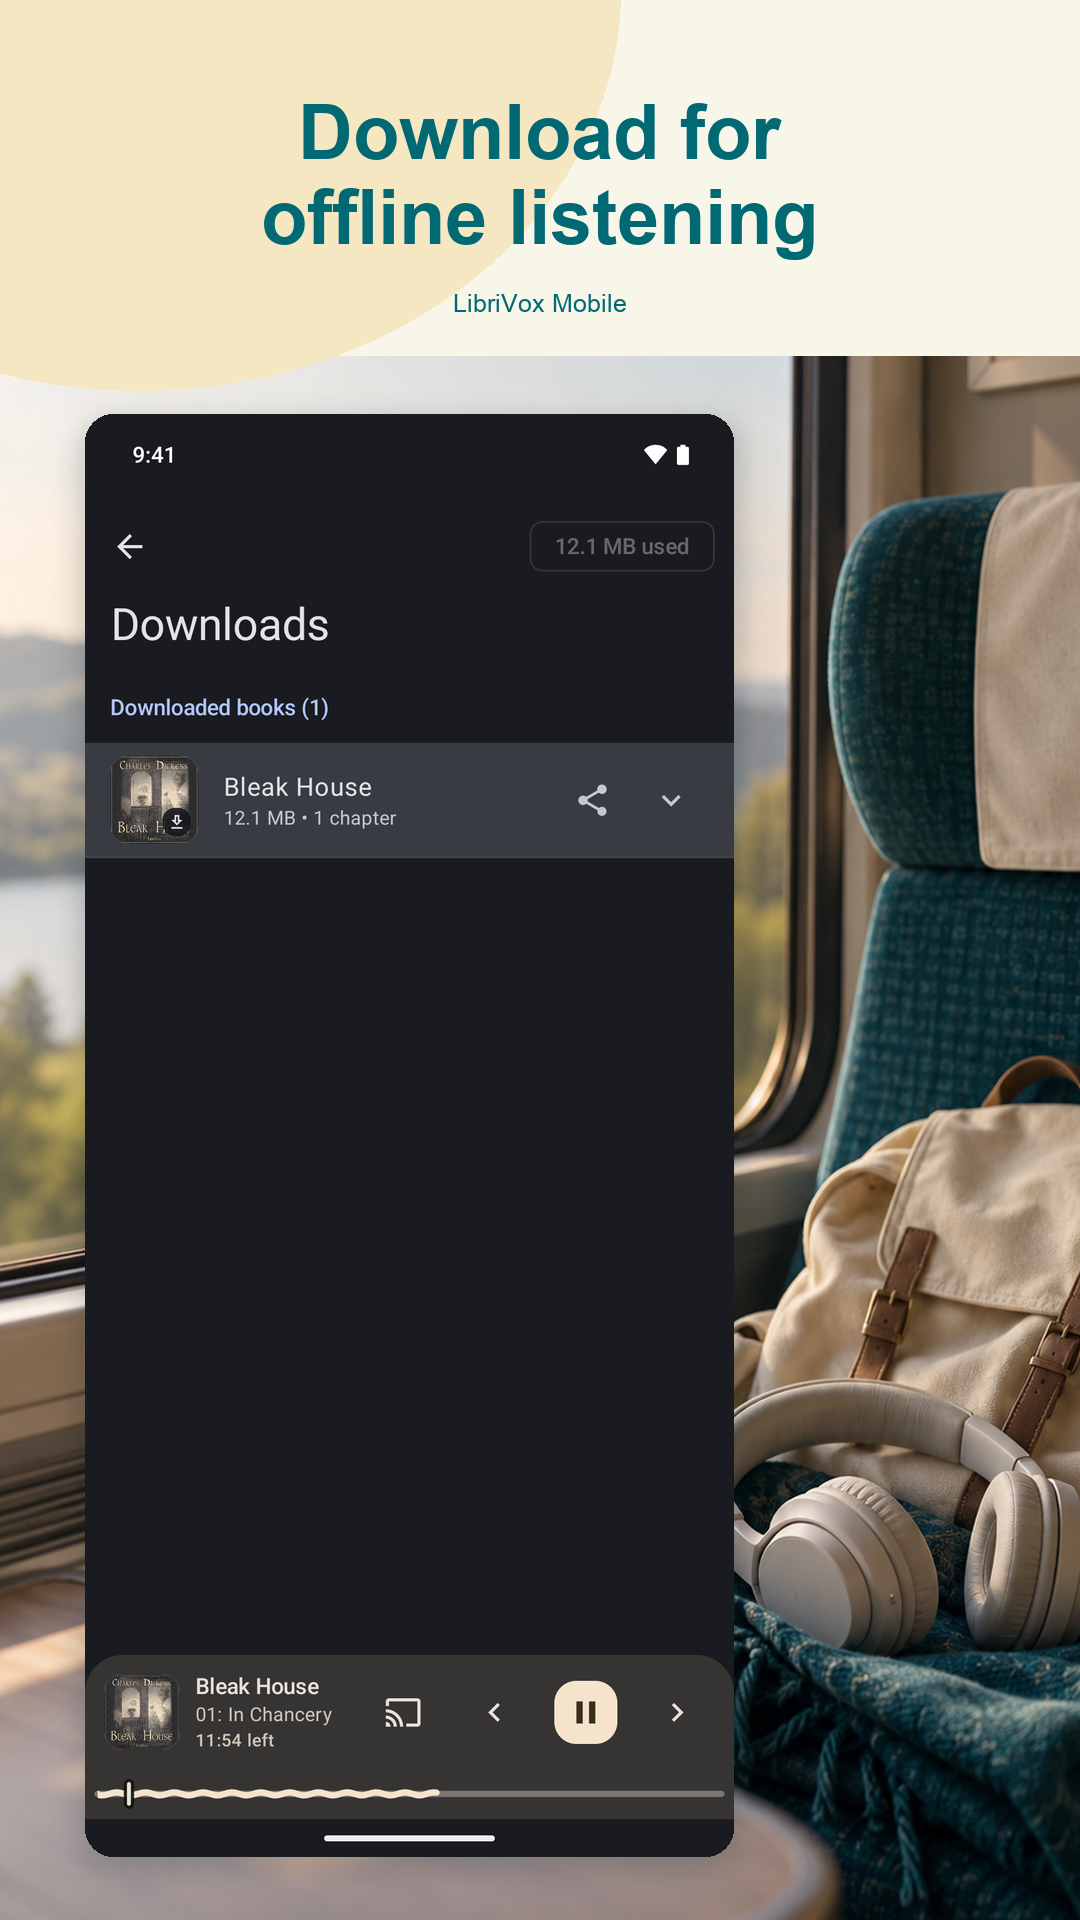
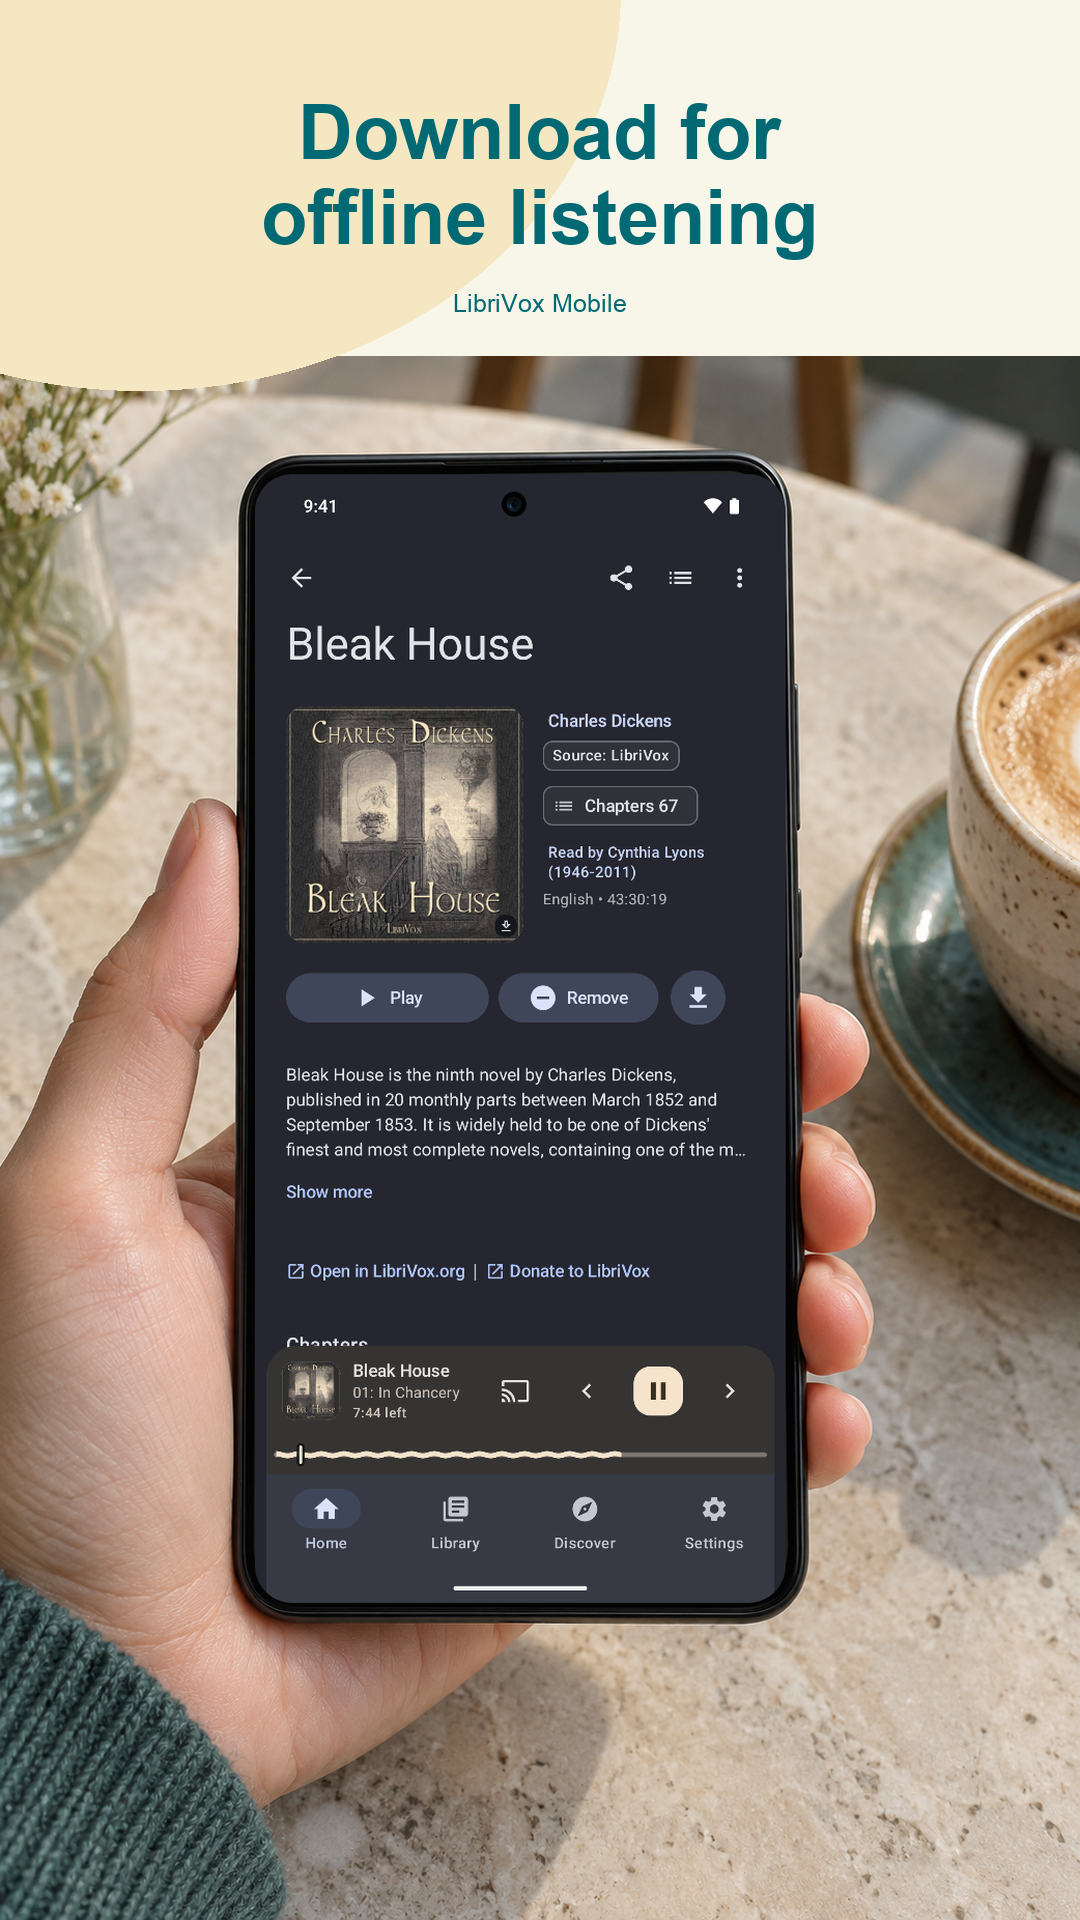
Place real app captures inside phone usage scenes

diff --git a/scripts/generate-play-store-assets.py b/scripts/generate-play-store-assets.py
@@ -7,12 +7,14 @@ import json
 import shutil
 from pathlib import Path
 
+import resvg_py
 from PIL import Image, ImageDraw, ImageFilter, ImageFont, ImageOps
 
 ROOT = Path(__file__).resolve().parents[1]
 DOCS = ROOT / 'docs/google-play'
 IMAGES = ROOT / 'fastlane/metadata/android/en-US/images'
 SOURCES = DOCS / 'source-screenshots/release-2026-10-08'
+USAGE_SOURCES = DOCS / 'source-screenshots/usage-2026-10-08'
 PHONE = IMAGES / 'phoneScreenshots'
 CREAM = '#F4E7C1'
 TEAL = '#006973'
@@ -29,10 +31,39 @@ ASSETS = [
 ]
 FONT_DIR = Path('/System/Library/Fonts/Supplemental')
 USAGE_SCENES = {
-    '02-casting.png': ('casting.png', (54, 414, 766, 1857)),
-    '04-downloads.png': ('offline.png', (54, 414, 766, 1857)),
-    '08-sleep-timer.png': ('sleep.png', (314, 414, 1026, 1857)),
+    '02-casting.png': ('casting', 'casting-volume.png', (465, 253, 859, 1082), (659, 275, 11)),
+    '04-downloads.png': ('offline', 'offline-book-playing.png', (246, 115, 758, 1204), (496, 144, 12)),
+    '08-sleep-timer.png': ('sleep', 'sleep-timer-15-min.png', (323, 292, 695, 1075), (509, 313, 10)),
 }
+
+
+def render_usage_scenes() -> None:
+    """Render source captures as fixed SVG layers inside generated phone scenes."""
+    for name, capture, bounds, camera in USAGE_SCENES.values():
+        base = DOCS / 'usage-scenes' / f'{name}-phone-base.png'
+        with Image.open(base) as photo:
+            width, height = photo.size
+        with Image.open(USAGE_SOURCES / capture) as screen:
+            background = '#%02x%02x%02x' % screen.convert('RGB').getpixel((0, 0))
+        x, y, right, bottom = bounds
+        camera_x, camera_y, camera_radius = camera
+        svg = f'''<svg xmlns="http://www.w3.org/2000/svg" xmlns:xlink="http://www.w3.org/1999/xlink" width="{width}" height="{height}" viewBox="0 0 {width} {height}">
+  <defs>
+    <mask id="display" maskUnits="userSpaceOnUse" x="0" y="0" width="{width}" height="{height}">
+      <rect x="{x}" y="{y}" width="{right-x}" height="{bottom-y}" rx="36" fill="white"/>
+      <circle cx="{camera_x}" cy="{camera_y}" r="{camera_radius}" fill="black"/>
+    </mask>
+  </defs>
+  <image xlink:href="{name}-phone-base.png" width="{width}" height="{height}"/>
+  <g mask="url(#display)">
+    <rect x="{x}" y="{y}" width="{right-x}" height="{bottom-y}" fill="{background}"/>
+    <image xlink:href="../source-screenshots/usage-2026-10-08/{capture}" x="{x}" y="{y}" width="{right-x}" height="{bottom-y}" preserveAspectRatio="xMidYMid meet"/>
+  </g>
+</svg>
+'''
+        vector = DOCS / 'usage-scenes' / f'{name}-screen.svg'
+        vector.write_text(svg)
+        (DOCS / 'usage-scenes' / f'{name}.png').write_bytes(resvg_py.svg_to_bytes(svg_path=str(vector), resources_dir=str(vector.parent)))
 
 
 def font(size: int, bold: bool = False) -> ImageFont.FreeTypeFont:
@@ -59,8 +90,8 @@ def screenshot(source: Path, output: Path, caption: tuple[str, ...]) -> None:
     canvas = Image.new('RGB', (1080, 1920), BACKGROUND)
     scene = USAGE_SCENES.get(source.name)
     if scene:
-        with Image.open(DOCS / 'usage-scenes' / scene[0]) as photo:
-            canvas.paste(ImageOps.fit(photo.convert('RGB'), canvas.size, method=Image.Resampling.LANCZOS))
+        with Image.open(DOCS / 'usage-scenes' / f'{scene[0]}.png') as photo:
+            canvas.paste(ImageOps.fit(photo.convert('RGB'), (1080, 1565), method=Image.Resampling.LANCZOS), (0, 355))
     draw = ImageDraw.Draw(canvas)
     if scene:
         draw.rectangle((0, 0, 1080, 355), fill=BACKGROUND)
@@ -70,7 +101,8 @@ def screenshot(source: Path, output: Path, caption: tuple[str, ...]) -> None:
     for index, line in enumerate(caption):
         draw.text((540, 103 + 85 * index), line, anchor='mt', font=font(76, True), fill=TEAL)
     draw.text((540, 294), 'LibriVox Mobile', anchor='mt', font=font(25), fill=TEAL)
-    image_insert(canvas, source, scene[1] if scene else (104, 369, 976, 1857))
+    if not scene:
+        image_insert(canvas, source, (104, 369, 976, 1857))
     canvas.save(output, optimize=True)
 
 
@@ -94,6 +126,7 @@ def main() -> None:
     if missing:
         raise SystemExit('Missing authentic release captures: ' + ', '.join(missing))
     PHONE.mkdir(parents=True, exist_ok=True)
+    render_usage_scenes()
     expected = {output for _, output, _ in ASSETS}
     # This directory contains only the generated Play screenshot set.
     for old in PHONE.glob('*.png'):
@@ -102,7 +135,9 @@ def main() -> None:
     manifest = []
     for source, output, caption in ASSETS:
         screenshot(SOURCES / source, PHONE / output, caption)
-        manifest.append({'source': str((SOURCES / source).relative_to(ROOT)), 'output': str((PHONE / output).relative_to(ROOT)), 'caption': ' '.join(caption), 'source_sha256': hashlib.sha256((SOURCES / source).read_bytes()).hexdigest(), 'output_sha256': hashlib.sha256((PHONE / output).read_bytes()).hexdigest(), 'usage_scene': USAGE_SCENES.get(source, (None,))[0]})
+        scene = USAGE_SCENES.get(source)
+        actual_source = USAGE_SOURCES / scene[1] if scene else SOURCES / source
+        manifest.append({'source': str(actual_source.relative_to(ROOT)), 'output': str((PHONE / output).relative_to(ROOT)), 'caption': ' '.join(caption), 'source_sha256': hashlib.sha256(actual_source.read_bytes()).hexdigest(), 'output_sha256': hashlib.sha256((PHONE / output).read_bytes()).hexdigest(), 'usage_scene': f'{scene[0]}.png' if scene else None, 'screen_composition': 'Unmodified Android capture as a proportional SVG image layer inside the phone display' if scene else 'Complete capture fitted proportionally'})
     feature_graphic()
     shutil.copy2(ROOT / 'app/src/main/assets/app-icons/play_store_icon_512.png', IMAGES / 'icon.png')
     shutil.copy2(IMAGES / 'icon.png', DOCS / 'play-store-icon.png')
@@ -114,7 +149,7 @@ def main() -> None:
         sheet.paste(thumb, (10 + (index % 4) * 280, 10 + (index // 4) * 500))
     sheet.save(DOCS / 'phone-screenshot-contact-sheet.png', optimize=True)
     (DOCS / 'asset-manifest.json').write_text(json.dumps(manifest, indent=2) + '\n')
-    (DOCS / 'asset-alt-text.md').write_text('# Play screenshot descriptions\n\n' + '\n'.join('- ' + a['output'].split('/')[-1] + ': ' + a['caption'] + '. Authentic Android capture.' for a in manifest) + '\n')
+    (DOCS / 'asset-alt-text.md').write_text('# Play screenshot descriptions\n\n' + '\n'.join('- ' + a['output'].split('/')[-1] + ': ' + a['caption'] + ('. Generated phone scene with an authentic Android capture inside its display.' if a['usage_scene'] else '. Authentic Android capture.') for a in manifest) + '\n')
     print('Generated eight 1080x1920 screenshots, a 1024x500 feature graphic, and the current 512x512 app icon.')
 
 

diff --git a/docs/google-play/usage-scenes/prompts.md b/docs/google-play/usage-scenes/prompts.md
@@ -1,15 +1,7 @@
-# Usage scene prompts
+# Phone usage scenes
 
-Generated with the built-in image_gen tool on October 8, 2026. These are illustrative backgrounds. The Android interface is captured separately and placed by the maintained store-asset compositor.
+The full built-in Imagegen prompt set is saved in `prompts.json`. The first step creates a phone with a blank display in a setting that fits the feature: a desk with a Google Home speaker, a phone held at a cafe table, or a bedside nightstand.
 
-## Casting
+The second step places an alternate real Android capture inside the display. Imagegen insertion previews were inspected, then the final SVG screen layers were rendered from the original screenshots to keep the text, icons, artwork, and playback states unchanged. The screen layers are fitted proportionally and masked at the physical display corners and camera cutout.
 
-Create one photorealistic editorial lifestyle BACKGROUND for a Google Play audiobook app screenshot. Portrait 1080:1920 composition, no text, no logos, no app UI, no phone screen or phone. A calm contemporary living room, a generic unbranded wireless speaker on an oak side table at lower right, a sofa and natural linen textures softly out of focus. Teal accents and warm cream daylight. Keep the central 65% of the picture very quiet and softly blurred so a large authentic app capture can be overlaid later; put recognizable room details near the outer edges and lower right. Honest, understated product photography, natural textures, no magical wireless graphics, no simulated connected status, no people, no glowing device lights.
-
-## Offline listening
-
-Create one photorealistic editorial lifestyle BACKGROUND for an audiobook app's offline-listening Google Play screenshot. Portrait 1080:1920 composition, no text, no logos, no app UI, no phone. View from a train seat, cream canvas backpack and generic headphones near the lower right, a softly blurred countryside through a window near the left edge. Teal fabric accents, warm cream natural daylight. Keep the central 65% quiet with smooth softly blurred tones so a large authentic Android app capture can be placed later. Real everyday listening context, premium restrained photography, realistic objects, no person, no invented controls, no icons, no connectivity indicators.
-
-## Bedtime listening
-
-Create one photorealistic editorial lifestyle BACKGROUND for an audiobook app's bedtime-listening Google Play screenshot. Portrait 1080:1920 composition, no text, no logos, no app UI, no phone. Warm bedside lamp on a small oak nightstand near the lower left edge, soft cream linen and deep muted teal bedding in a calm room at night. Keep the central 65% visually quiet and softly out of focus so a large authentic Android app screenshot can be placed later. Natural photographic details, relaxed evening light, readable light cream tonal background near the top, no person, no visible clock, no fake screens or playback states.
+Captions are composed outside the screen. The photographs illustrate app usage; they are not photographs of the device tests. The three final phone images are labeled as AI assets in Play Console. Capture descriptions and source hashes are recorded in `provenance.json`.

diff --git a/README.md b/README.md
@@ -39,10 +39,18 @@ LibriVox Mobile does not charge for access to these recordings. It is independen
 ## Screenshots
 
 <p>
-  <img src="docs/screenshots/04-discover.png" alt="Discover LibriVox audiobooks" width="24%" />
-  <img src="docs/screenshots/05-book-detail.png" alt="LibriVox book details" width="24%" />
-  <img src="docs/screenshots/06-playing-detail.png" alt="Mini player" width="24%" />
-  <img src="docs/screenshots/07-player.png" alt="Full player" width="24%" />
+  <img src="docs/google-play/source-screenshots/release-2026-10-08/01-browse.png" alt="Browse audiobooks in dark mode" width="24%" />
+  <img src="docs/google-play/source-screenshots/release-2026-10-08/03-player.png" alt="Audiobook player and playback controls" width="24%" />
+  <img src="docs/google-play/source-screenshots/release-2026-10-08/05-library.png" alt="Saved books and listening progress" width="24%" />
+  <img src="docs/google-play/source-screenshots/release-2026-10-08/07-bookmarks.png" alt="Bookmarks and notes in the audiobook player" width="24%" />
+</p>
+
+Cast to a compatible speaker, listen to a downloaded chapter while out, or set a timer before bed. These illustrative phone scenes use different authentic app captures from the screenshots above.
+
+<p>
+  <img src="docs/google-play/usage-scenes/casting.png" alt="Phone on a desk beside a Google Home speaker, with native Cast volume controls on its screen" width="32%" />
+  <img src="docs/google-play/usage-scenes/offline.png" alt="A phone held at a cafe table, playing a downloaded audiobook chapter" width="32%" />
+  <img src="docs/google-play/usage-scenes/sleep.png" alt="Phone on a bedside nightstand with a 15-minute sleep timer selected" width="32%" />
 </p>
 
 ## Build

diff --git a/docs/google-play/store-listing.md b/docs/google-play/store-listing.md
@@ -25,6 +25,8 @@ Source code: https://github.com/ababilinski/librivox-mobile
 
 Run `python3 scripts/generate-play-store-assets.py` after capturing the release UI. Eight phone images in `fastlane/metadata/android/en-US/images/phoneScreenshots/` are ordered browse, casting, player, offline downloads, library progress, chapters, bookmarks/notes, and sleep timer. Each is 1080x1920 RGB PNG with the complete authentic Android capture fitted proportionally inside the composition.
 
+Casting, offline listening, and the sleep timer use phone scenes that fit the feature: a desk beside a Google Home speaker, a phone held at a cafe table, and a bedside nightstand. Create the scene first, then insert a different authentic app capture into the phone display. The SVG screen layers keep the captured UI intact, fit it proportionally, and preserve the physical camera cutout. Captions remain outside the phone. Generated scenes are labeled as AI assets in Console; these images illustrate usage rather than document the photographed setting of the device test.
+
 The 1024x500 feature graphic includes the real casting sheet and player. The 512x512 Play icon comes from the current launcher icon asset. `asset-manifest.json` records source and output hashes. `phone-screenshot-contact-sheet.png` is a local review preview, not a store upload.
 
 ## Review declarations

diff --git a/docs/google-play/asset-alt-text.md b/docs/google-play/asset-alt-text.md
@@ -1,10 +1,10 @@
 # Play screenshot descriptions
 
 - 01-browse-audiobooks.png: Find your next audiobook. Authentic Android capture.
-- 02-cast-to-speakers-and-tvs.png: Cast to speakers and TVs. Authentic Android capture.
+- 02-cast-to-speakers-and-tvs.png: Cast to speakers and TVs. Generated phone scene with an authentic Android capture inside its display.
 - 03-player-controls.png: Listen at your own pace. Authentic Android capture.
-- 04-offline-listening.png: Download for offline listening. Authentic Android capture.
+- 04-offline-listening.png: Download for offline listening. Generated phone scene with an authentic Android capture inside its display.
 - 05-library-progress.png: Pick up where you left off. Authentic Android capture.
 - 06-chapter-list.png: Jump to any chapter. Authentic Android capture.
 - 07-bookmarks-and-notes.png: Save bookmarks and notes. Authentic Android capture.
-- 08-sleep-timer.png: Set a sleep timer. Authentic Android capture.
+- 08-sleep-timer.png: Set a sleep timer. Generated phone scene with an authentic Android capture inside its display.
